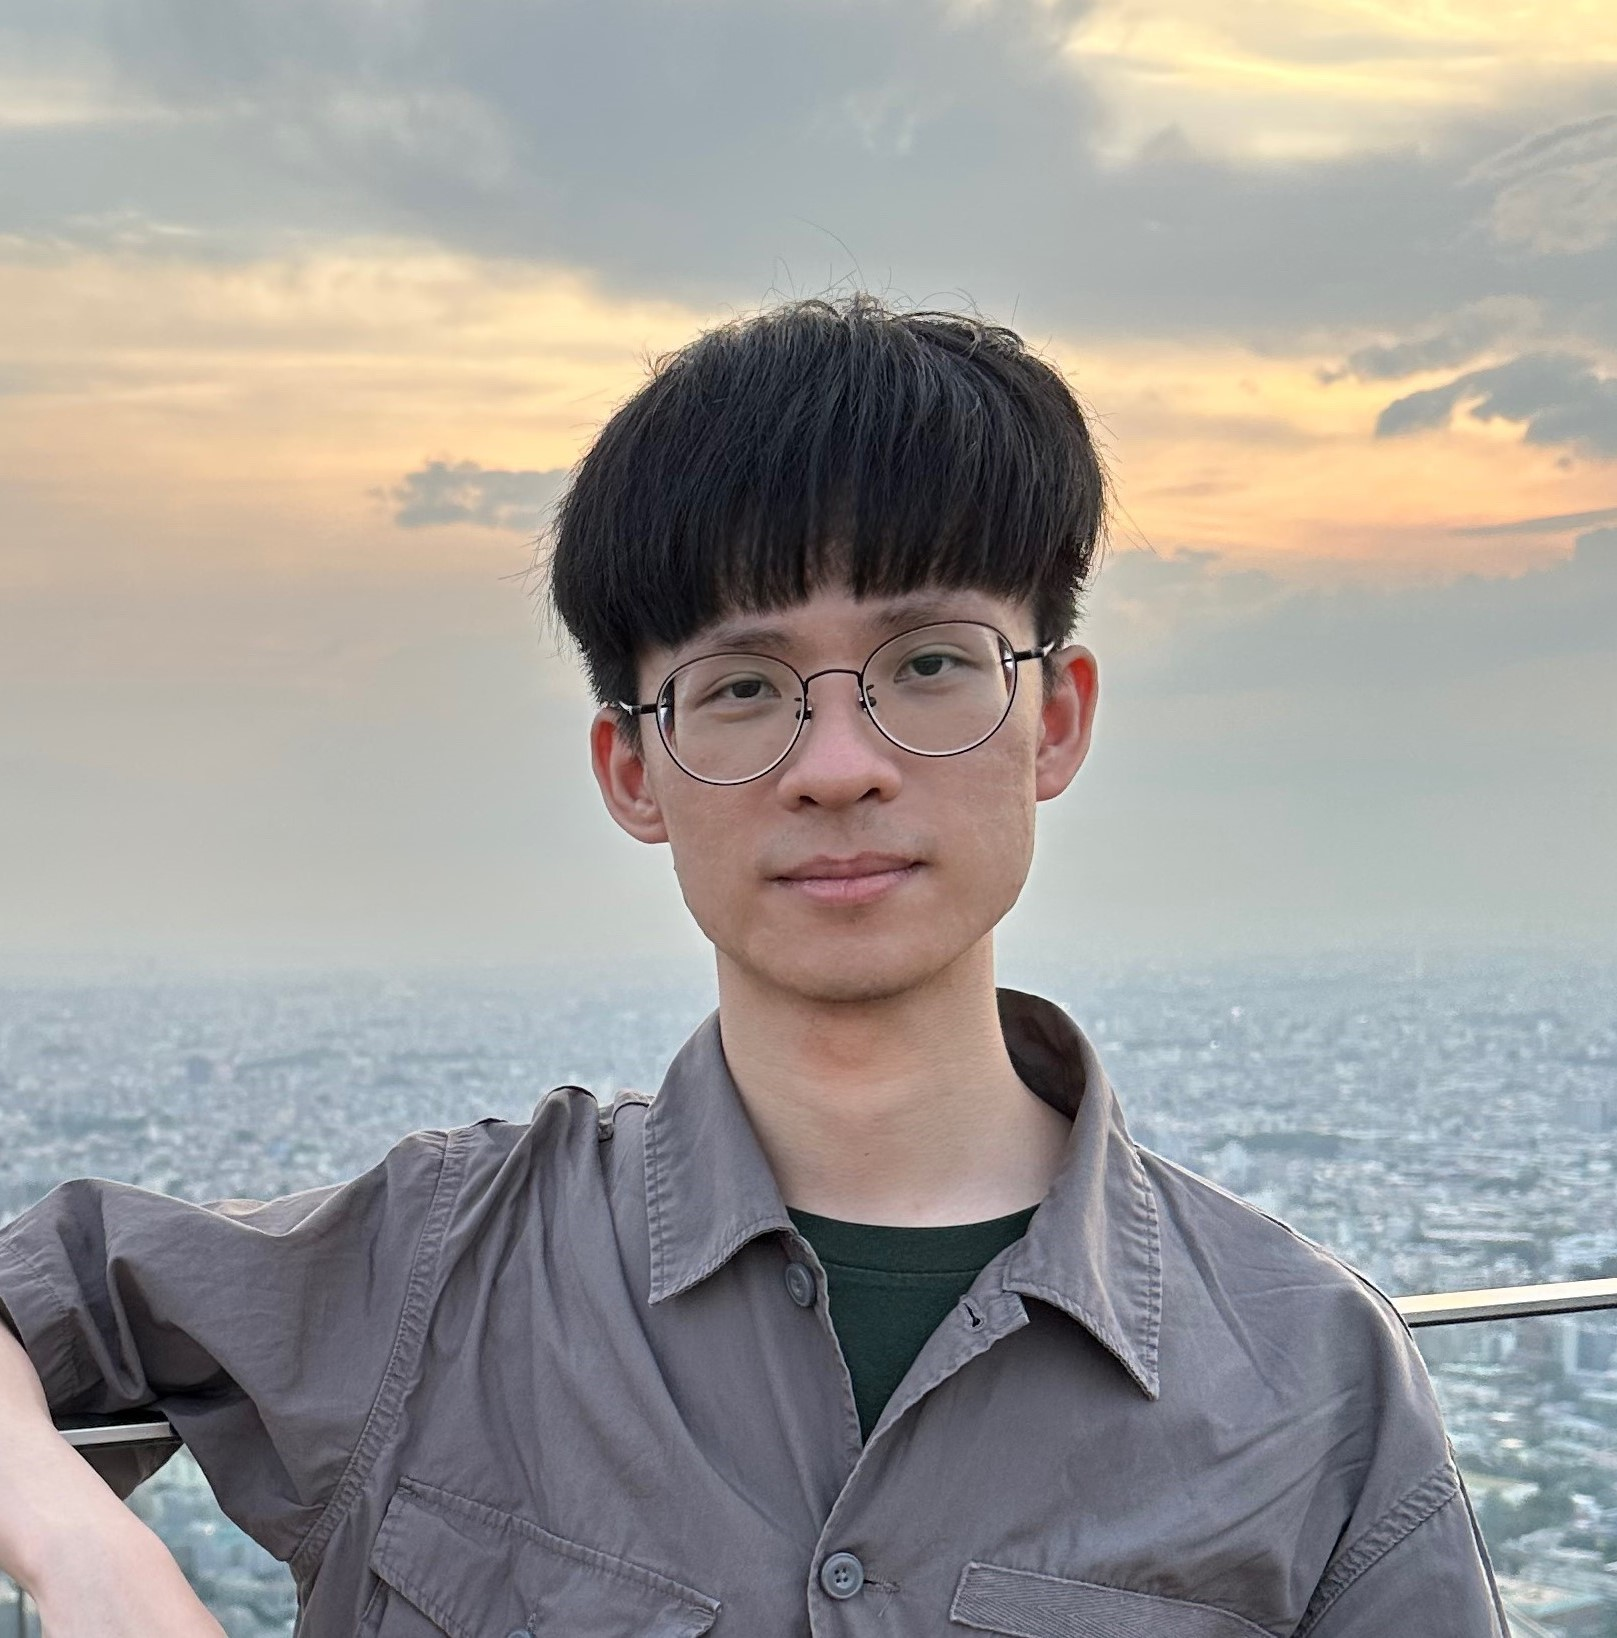
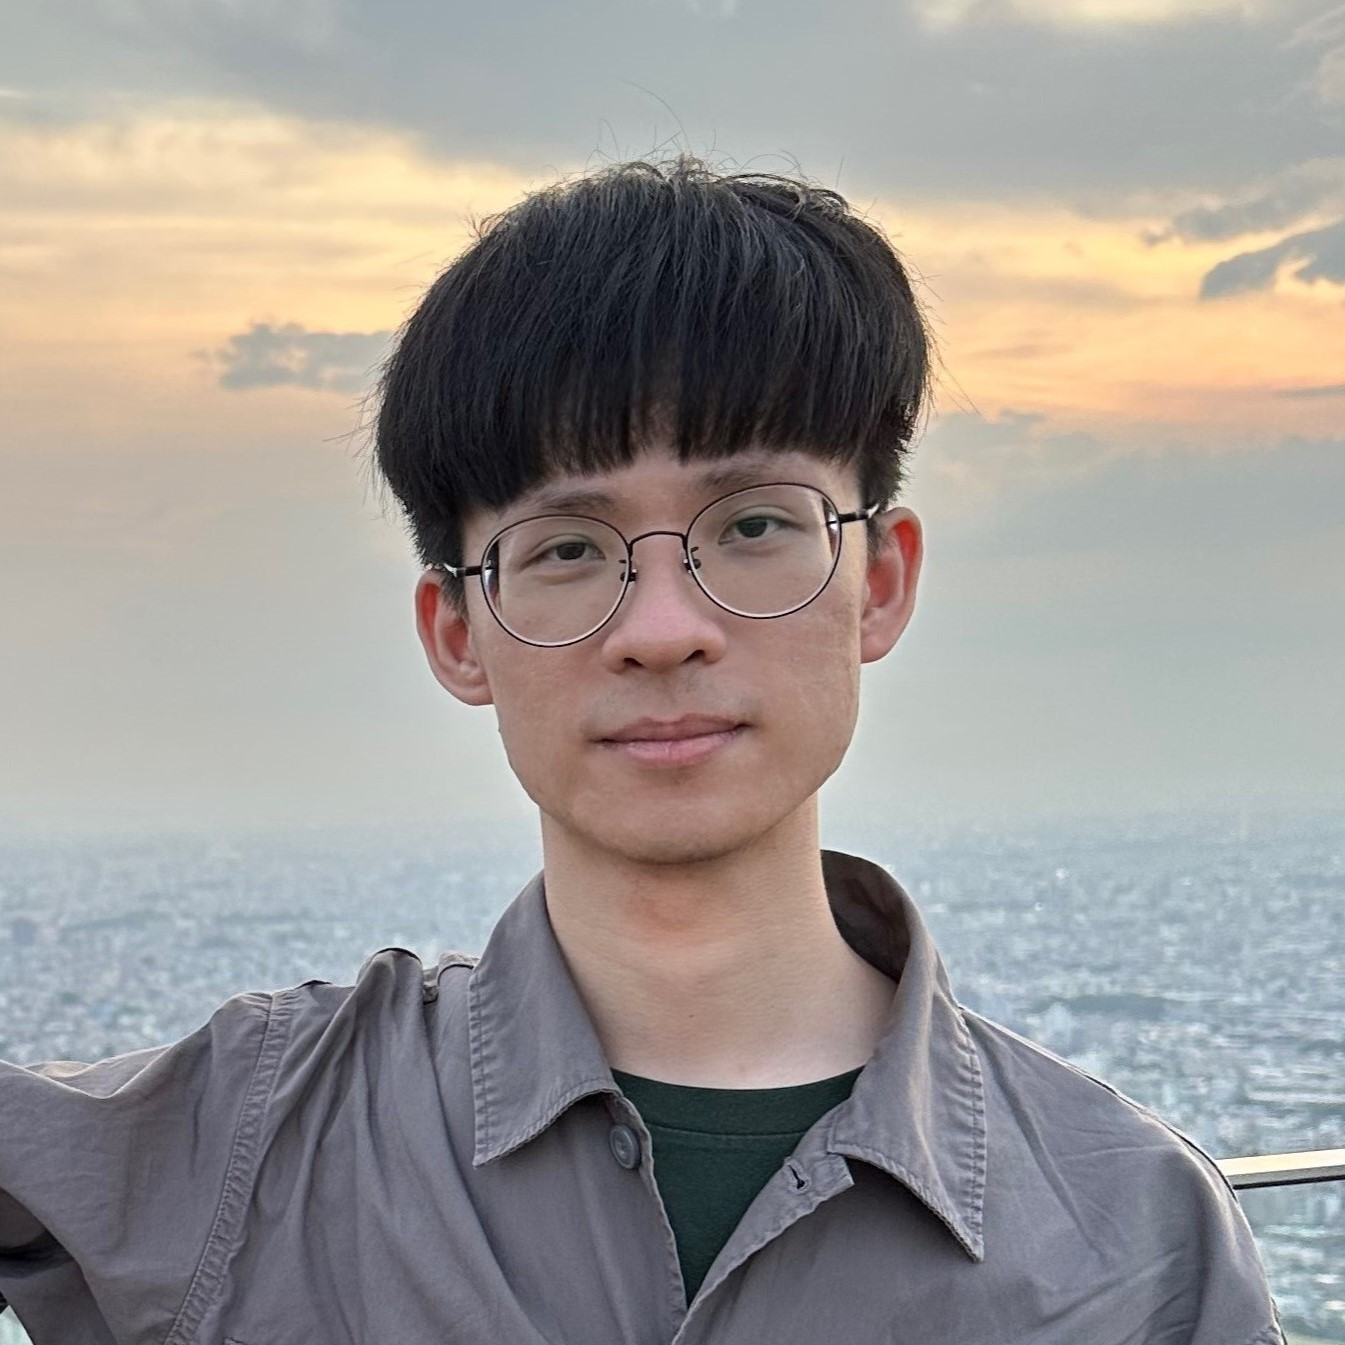
update intro and photo

diff --git a/index.md b/index.md
@@ -8,7 +8,7 @@ cover: true
 Hi! I am Peng-Jui Wang (王朋睿).
 {:.lead}
 
-I recently graduated from [National Yang Ming Chiao Tung University](https://www.nycu.edu.tw){:target="_blank" rel="noopener noreferrer"} in Taiwan with a bachelor's degree in computer science. Now, I am applying for a master’s degree in computer science in the United States. 
+I recently graduated from [National Yang Ming Chiao Tung University](https://www.nycu.edu.tw){:target="_blank" rel="noopener noreferrer"} in Taiwan with a bachelor’s degree in computer science. My expertise lies in backend development, and I possess a keen interest in various technical domains like software systems and mobile technology.
 
 During the last two years of my undergraduate studies, I was a research assistant at Professor [Yung-Ju Chang’s](https://www.armuro.info){:target="_blank" rel="noopener noreferrer"} Mobile and Ubiquitous Interaction Lab. In this role, I conducted research focused on mobile notification and developed intelligent notification systems that enhance smartphone users’ experience of notifications. 
 
